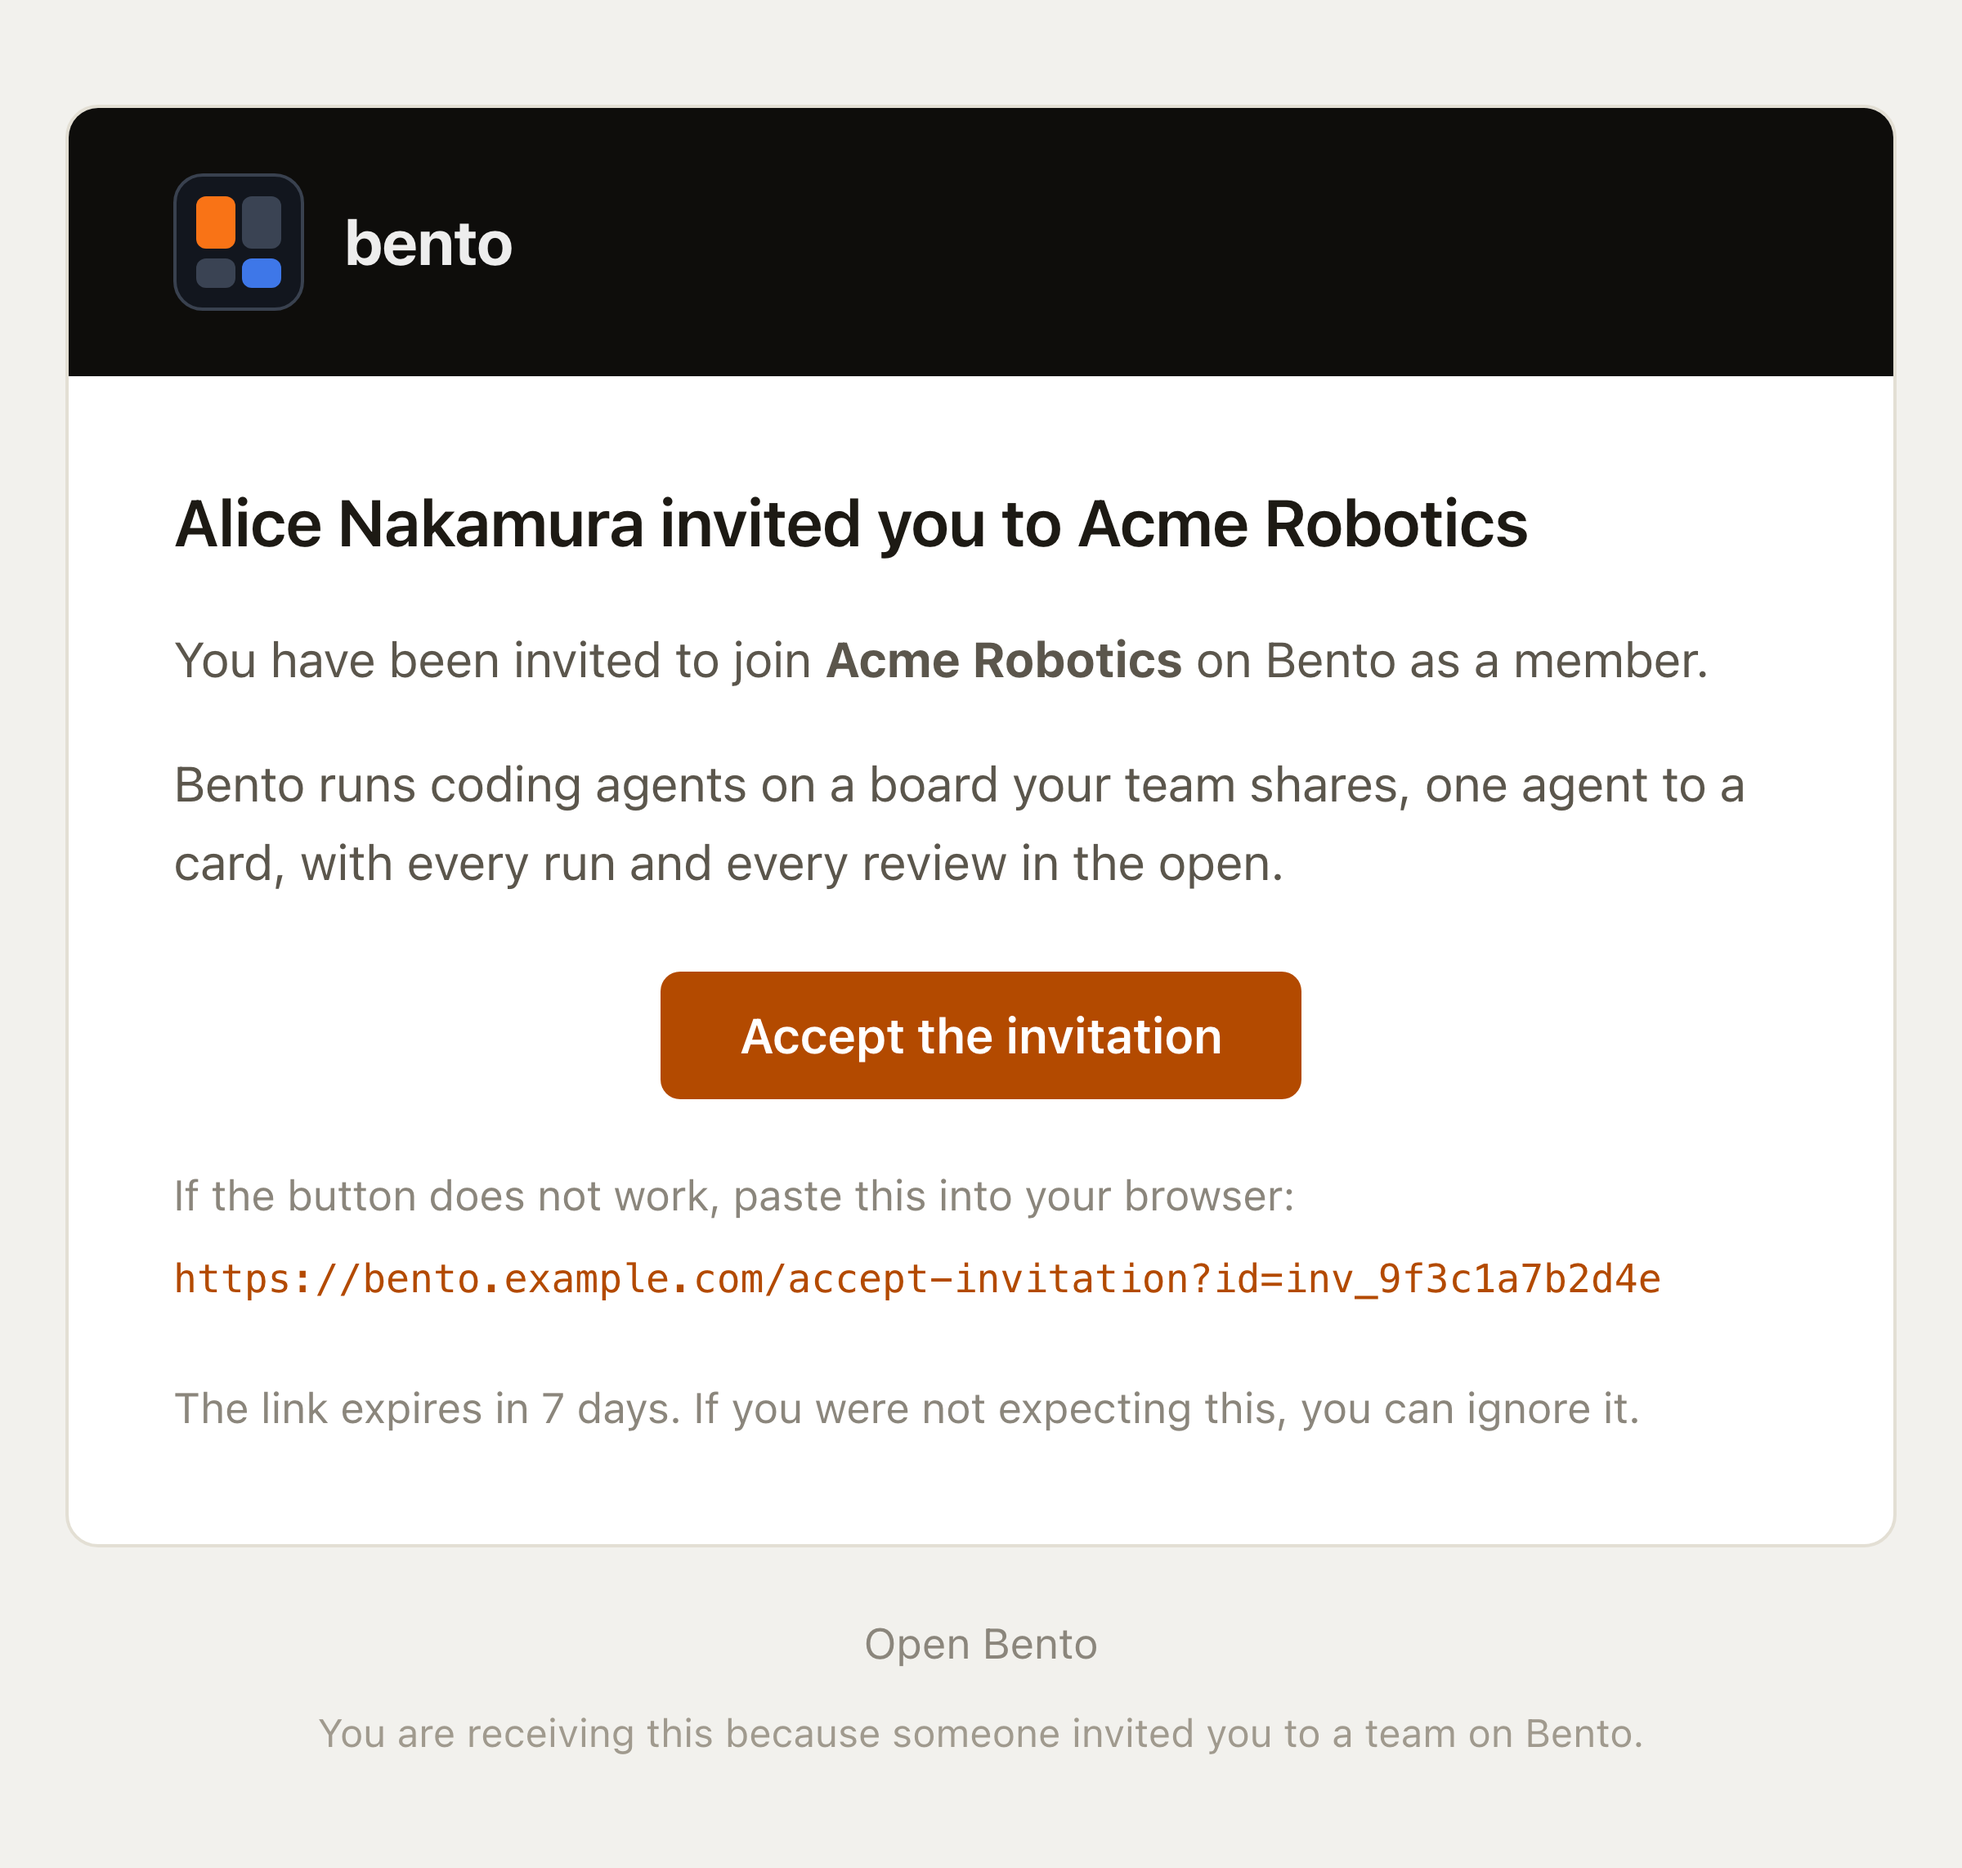
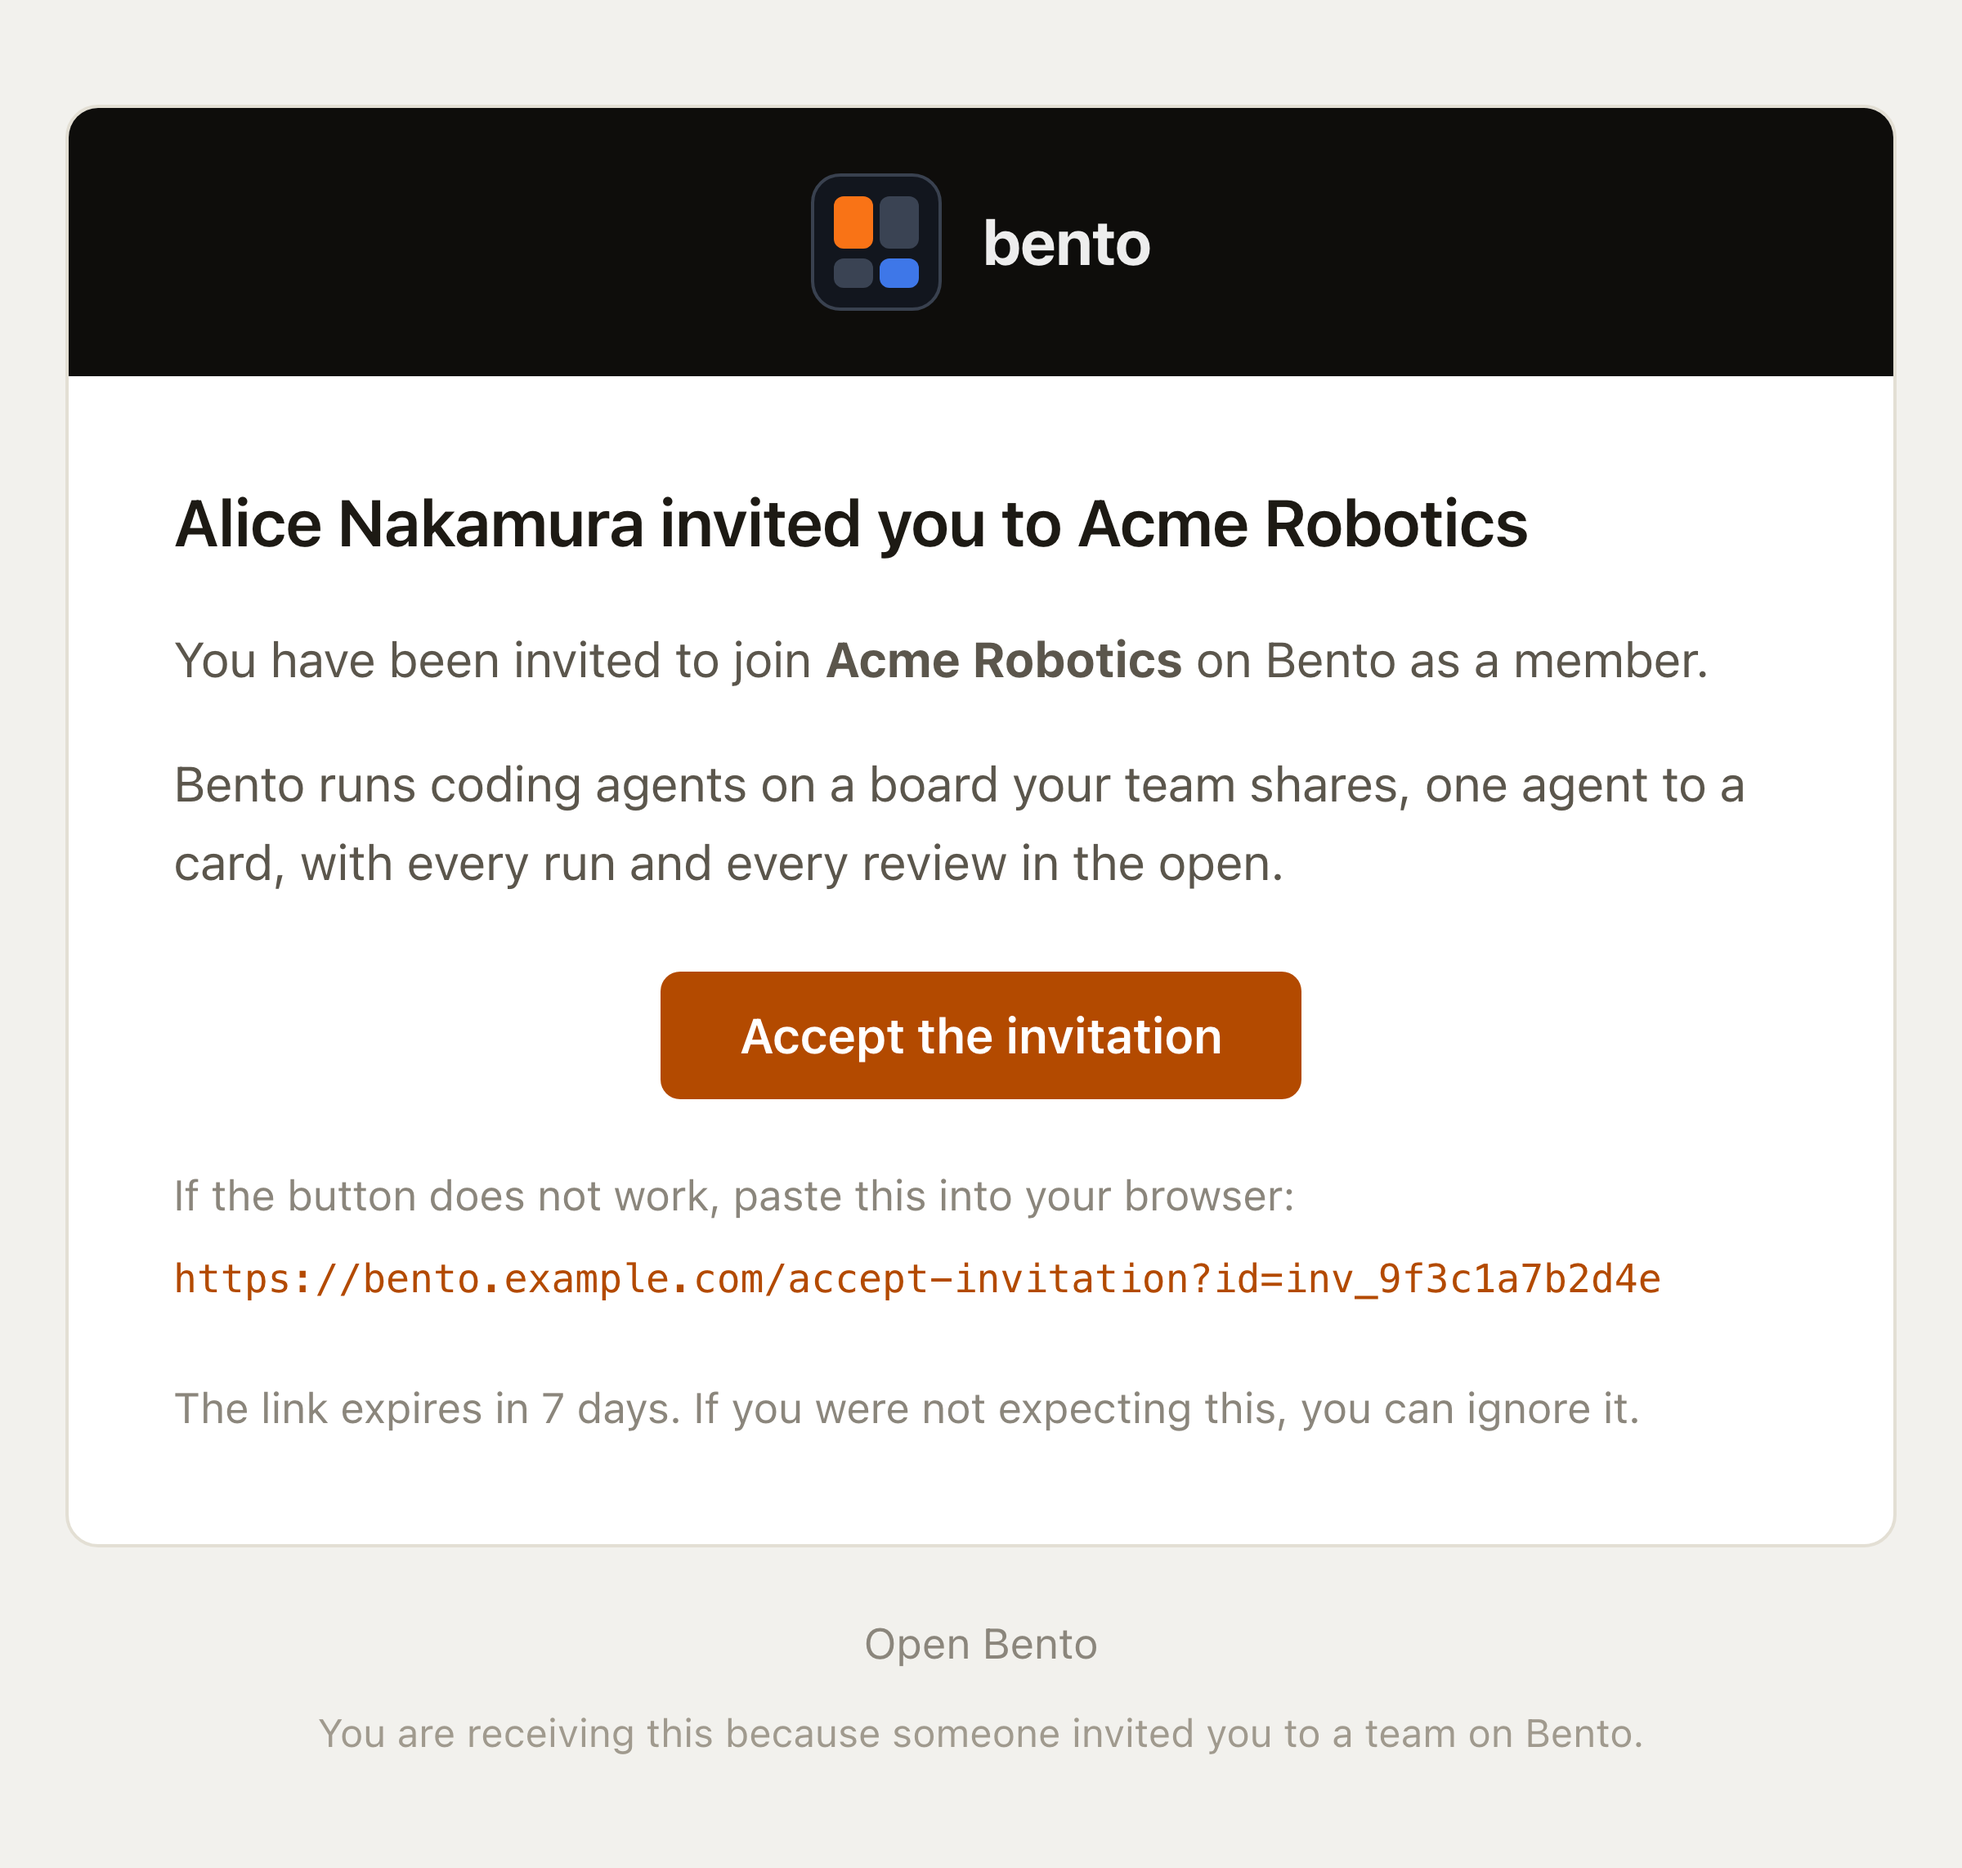
Centre the mark and the wordmark in the header band
The button and the footer were centred and the header was not, which
left the one fixed element in every email sitting off to one side.

Centred by the align attribute as well as by margin, the way the
other two are: some clients ignore margin:auto on a table, others
ignore the attribute, and being centred in half of them is worse
than either.

Changed region(s): [[0.0938, 0.0933, 0.2812, 0.1554], [0.4062, 0.0933, 0.4688, 0.1554], [0.5, 0.1243, 0.5938, 0.1554]]

diff --git a/apps/server/src/email-layout.ts b/apps/server/src/email-layout.ts
@@ -148,10 +148,15 @@ function preheader(text: string): string {
   );
 }
 
+/**
+ * Centred the way the button and the footer are: the align attribute
+ * for the clients that ignore margin:auto on a table, the margin for
+ * the ones that ignore the attribute.
+ */
 function header(): string {
   return [
-    `<tr><td style="background:${HEADER};padding:20px 32px;">`,
-    '<table role="presentation" cellpadding="0" cellspacing="0" border="0"><tr>',
+    `<tr><td align="center" style="background:${HEADER};padding:20px 32px;text-align:center;">`,
+    '<table role="presentation" align="center" cellpadding="0" cellspacing="0" border="0" style="margin:0 auto;"><tr>',
     `<td style="padding-right:12px;">${mark()}</td>`,
     `<td style="font-family:${SANS};font-size:19px;font-weight:700;letter-spacing:-0.01em;color:${HEADER_TEXT};">bento</td>`,
     "</tr></table>",

diff --git a/apps/server/src/mail.test.ts b/apps/server/src/mail.test.ts
@@ -114,6 +114,12 @@ test("the footer carries one link back, centred", () => {
   assert.doesNotMatch(body, /Account settings|What changed/);
 });
 
+test("the mark and the wordmark are centred in the header band", () => {
+  const body = invitation().html ?? "";
+  assert.match(body, /<td align="center" style="background:#0e0d0b[^"]*text-align:center;">/);
+  assert.match(body, /<table role="presentation" align="center"[^>]*margin:0 auto;"><tr>\s*<td style="padding-right:12px;">/);
+});
+
 test("the action button is centred, by attribute as well as by margin", () => {
   const body = invitation().html ?? "";
   // Outlook ignores margin:auto on a table, so the align attribute is
